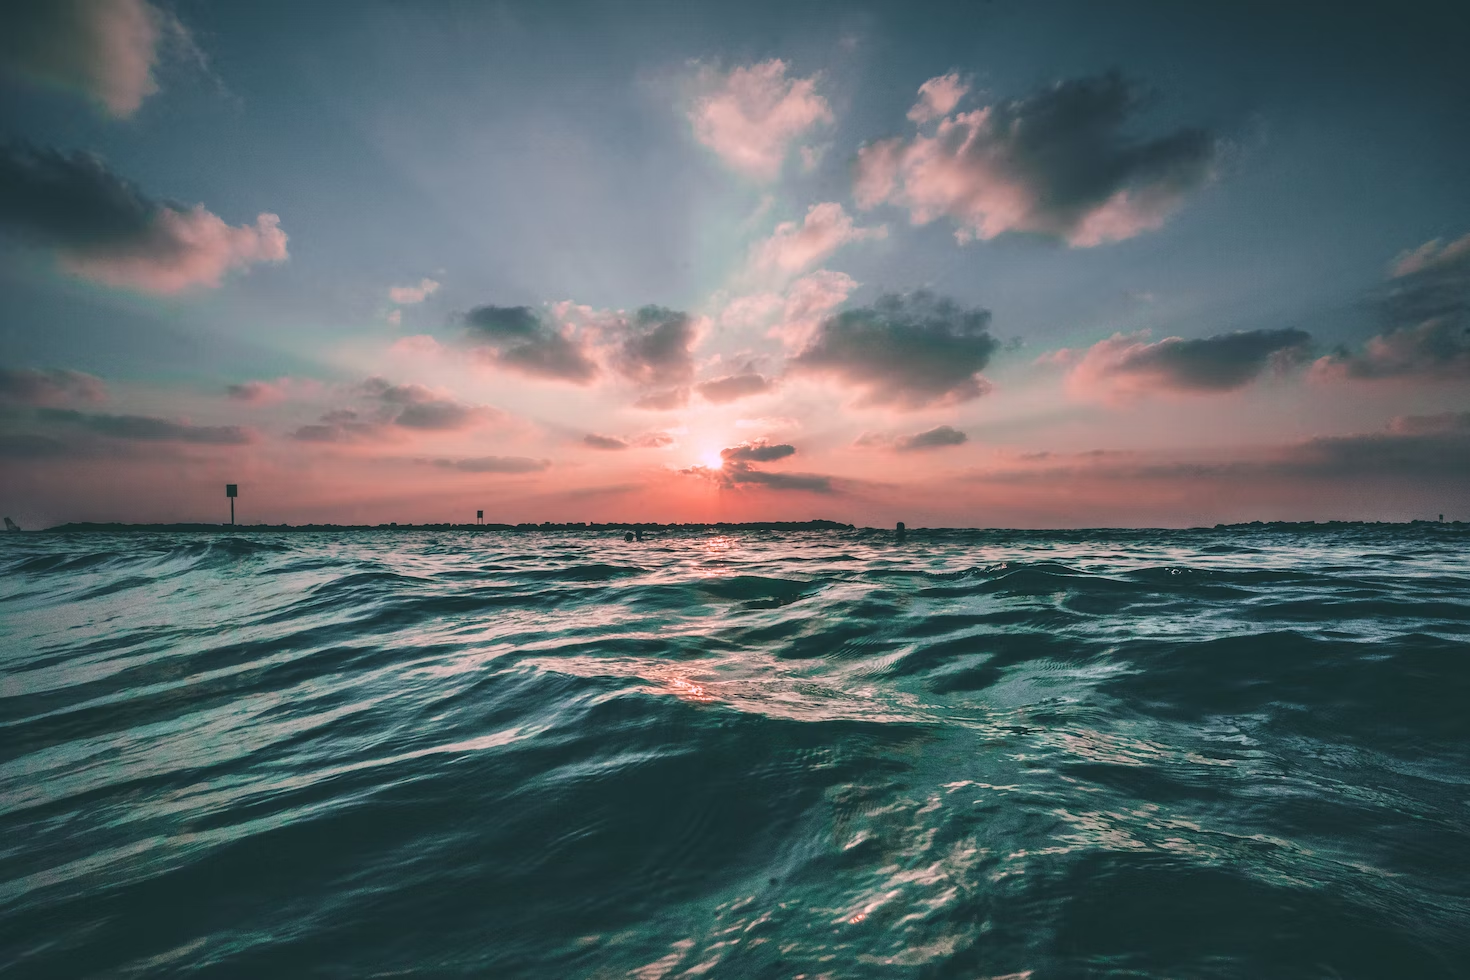
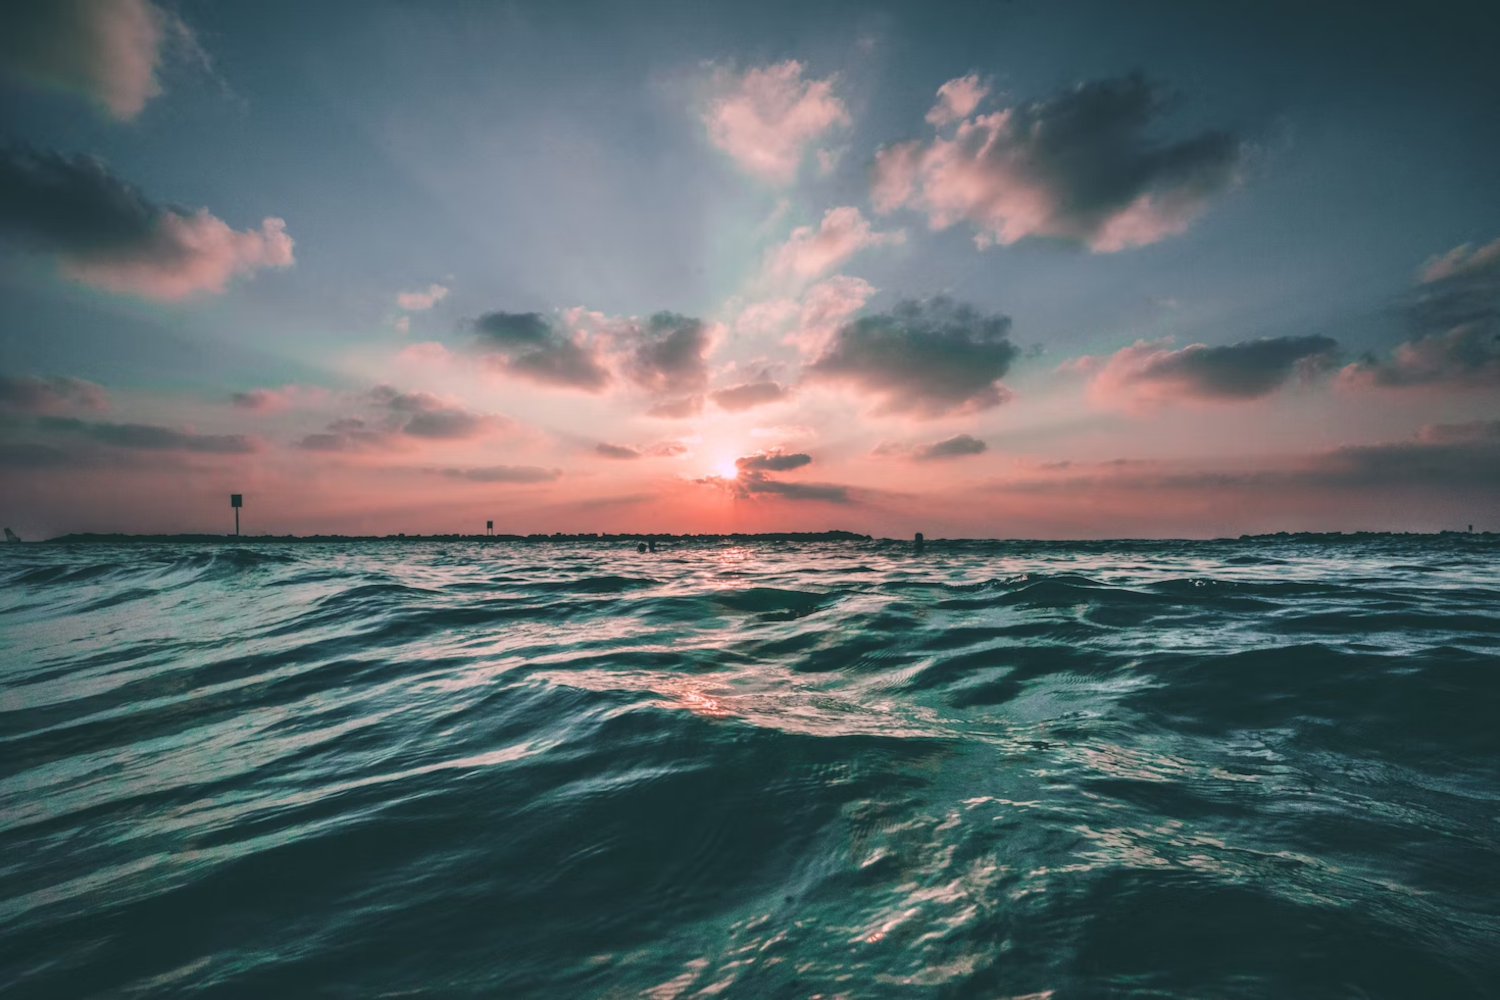
reduced image size and consolidated font import

Changed region(s): [[0.3061, 0.551, 0.5204, 0.5816], [0.6735, 0.551, 0.7959, 0.5816]]

diff --git a/app/assets/stylesheets/config/_fonts.scss b/app/assets/stylesheets/config/_fonts.scss
@@ -1,17 +1,18 @@
 // Import Google fonts
-@import url('https://fonts.googleapis.com/css?family=Nunito:400,700|Work+Sans:400,700&display=swap');
+@import url('https://fonts.googleapis.com/css2?family=Bebas+Neue&family=Dancing+Script:wght@500&family=Playfair+Display+SC:wght@700&family=Playfair+Display:wght@400;500;600;700&family=Public+Sans&display=swap');
+
 // Header
-@import url('https://fonts.googleapis.com/css2?family=Bebas+Neue');
+// @import url('https://fonts.googleapis.com/css2?family=Bebas+Neue');
 // Sub-header
-@import url('https://fonts.googleapis.com/css2?family=Playfair+Display:wght@400;500;600;700');
-@import url('https://fonts.googleapis.com/css2?family=Playfair+Display+SC:wght@700');
-@import url('https://fonts.googleapis.com/css2?family=Dancing+Script:wght@500');
+// @import url('https://fonts.googleapis.com/css2?family=Playfair+Display:wght@400;500;600;700');
+// @import url('https://fonts.googleapis.com/css2?family=Playfair+Display+SC:wght@700');
+// @import url('https://fonts.googleapis.com/css2?family=Dancing+Script:wght@500');
 // Text
-@import url('https://fonts.googleapis.com/css2?family=Public+Sans&display=swap');
+// @import url('https://fonts.googleapis.com/css2?family=Public+Sans&display=swap');
 
 // Define fonts for body and headers
-$body-font: "Montserrat", "Helvetica", "sans-serif";
-$headers-font: "Montserrat", "Helvetica", "sans-serif";
+$body-font: "Playfair Display", "Montserrat", "Helvetica", "sans-serif";
+$headers-font: "Public Sans", "Montserrat", "Helvetica", "sans-serif";
 
 // To use a font file (.woff) uncomment following lines
 // @font-face {

diff --git a/app/assets/stylesheets/components/_card.scss b/app/assets/stylesheets/components/_card.scss
@@ -46,7 +46,7 @@
   }
 
   .card-goal.image_two {
-    background-image: linear-gradient(rgba(0,0,0,0.3), rgba(0,0,0,0.3)), image-url("image.png")
+    background-image: linear-gradient(rgba(0,0,0,0.3), rgba(0,0,0,0.3)), image-url("image.jpg")
   }
   // .card-trip p {
   //   font-size: 12px;
